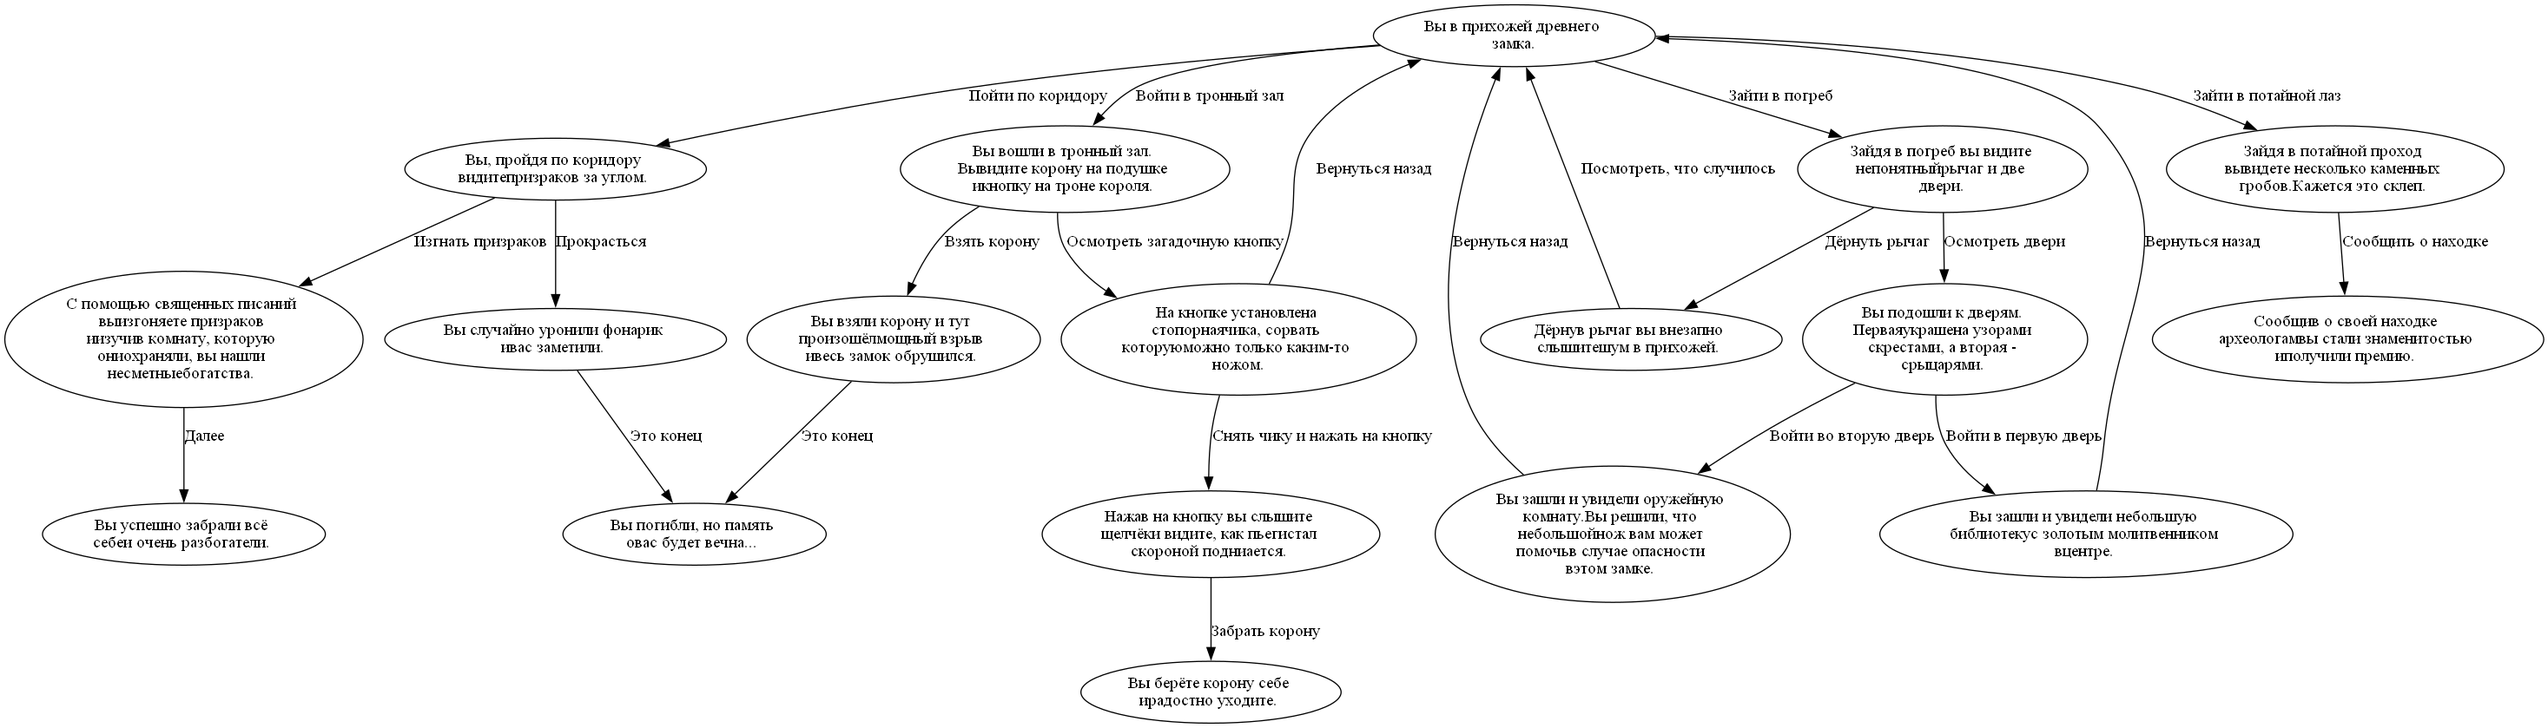
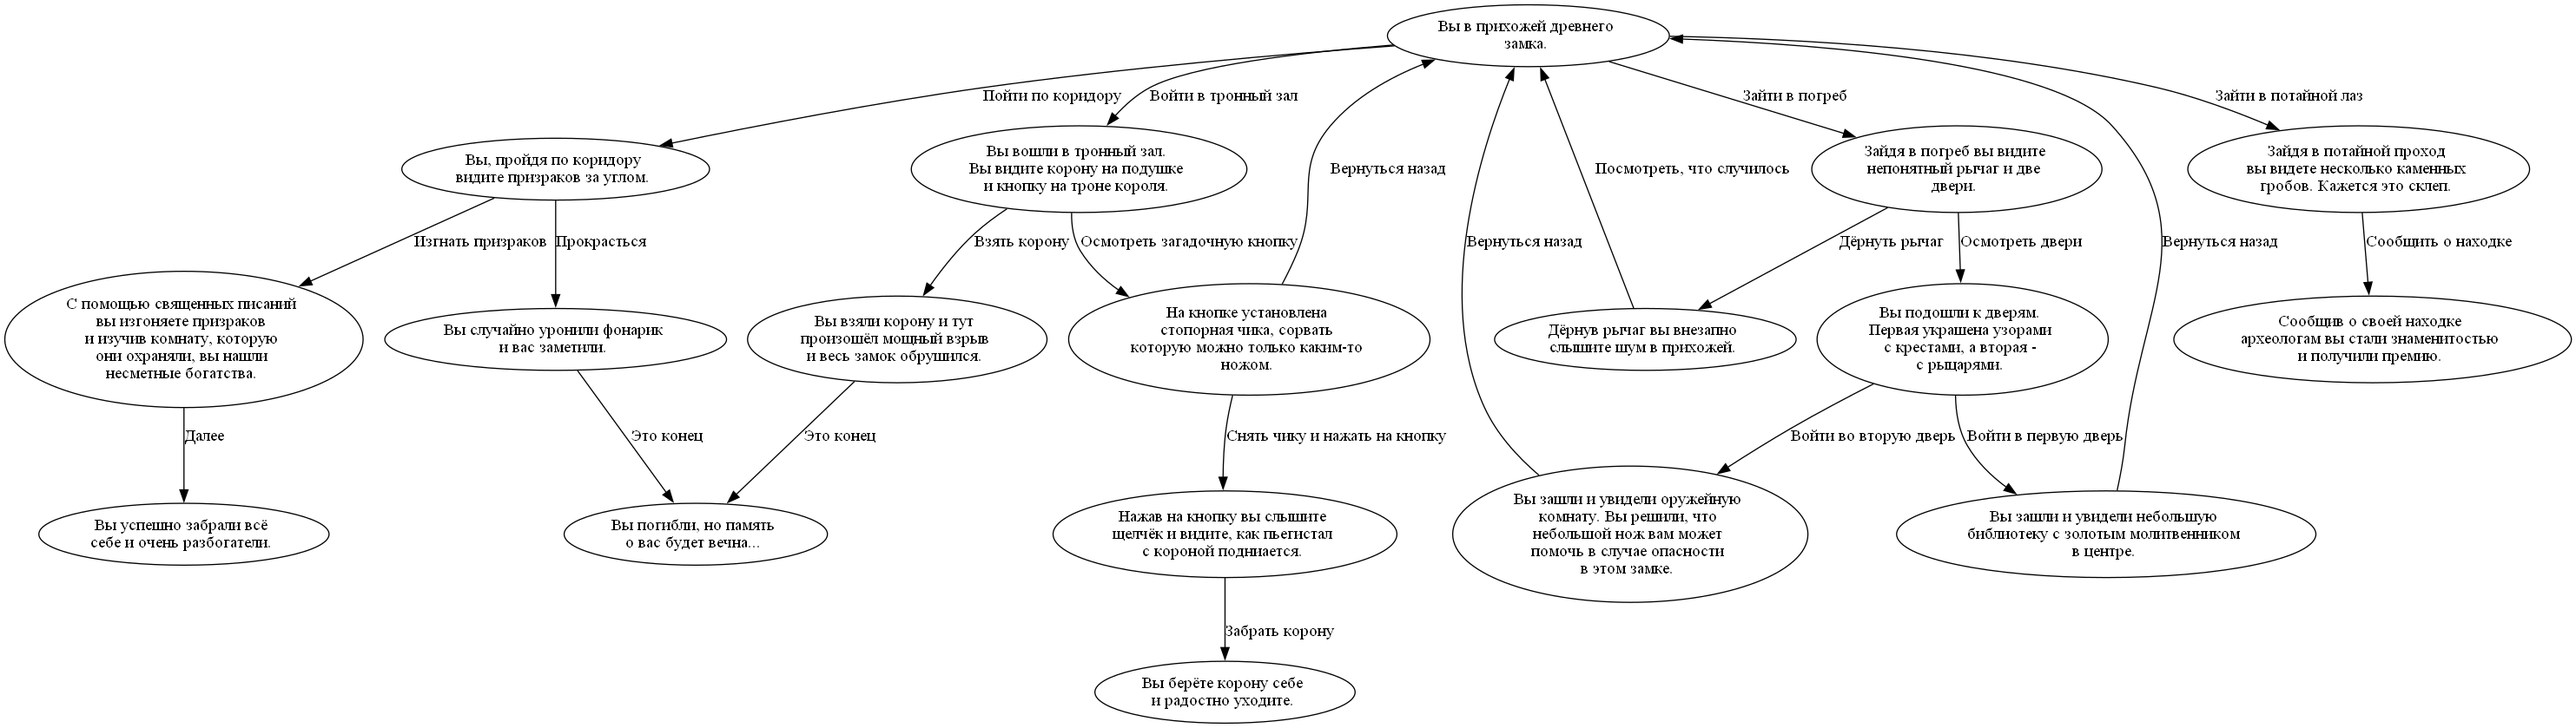
Try/except + new picture
Исправление бага с пробельчиками + ошибки при сломанных файлах

diff --git a/generator5.py b/generator5.py
@@ -1,6 +1,14 @@
 import json  # Сохранение списков
 import os  # Переход в другую директорию
-import graphviz  # Отрисовка графа
+import sys  # Завершение работы программы
+try:
+    import graphviz  # Отрисовка графа
+except ModuleNotFoundError:
+    print('Модуль graphviz не установлен')
+    print('Команда для установки: ')
+    print('pip install graphviz')
+    input()
+    sys.exit(1)
 
 def print_buttons(buttons):
     """Функция вывода текстов для кнопок"""
@@ -12,13 +20,28 @@ def print_buttons(buttons):
 
 
 # Переход в папку бота
+cls = 'cls' if os.name == 'nt' else 'clear'
 sep = '\\' if os.name == 'nt' else '/'
 file = input('Введите адрес папки для бота:\n')
 s = file + f'{sep}TelegramBotData{sep}static'
-os.chdir(s)
+try:
+    os.chdir(s)
+except FileNotFoundError:
+    print('Указанной папки не существует')
+    input()
+    sys.exit(1)
 
 # Считывание текстов кнопок
-button = json.load(open('button.json', 'r'))
+try:
+    button = json.load(open('button.json', 'r'))
+except FileNotFoundError:
+    print('В файлах бота отсутствует TelegramBotData/static/button.json')
+    print('Вы можете создать его сами')
+    print('В этот файл нужно записать такую строку: ')
+    print('[["", "", ... столько раз, сколько вершин в графе], ["", "", ... столько раз, сколько вершин в графе], '
+          '... столько раз, сколько вершин в графе]')
+    input()
+    sys.exit(1)
 
 # Вывод текстов
 print_buttons(button)
@@ -49,41 +72,52 @@ text_list = json.load(open('text.json', 'r'))
 
 # Указание, куда сохранять картинку
 s = file + f'{sep}TelegramBotData{sep}graph'
-os.chdir(s)
-
-# Создание графа
-g = graphviz.Digraph('Graph for bot', comment='Your graph', format='png')
+try:
+    os.chdir(s)
+except FileNotFoundError:
+    print('Указанной папки не существует')
+    input()
+    sys.exit(1)
 
 # Создание нормальных окон(не однострочных)
-for i in range(len(adj_list)):
-    text_split = text_list[i].split()
-    text = ''
-    l = 0
-    for j in range(len(text_split)):
-        if l <= 20:
-            text += text_split[j] + " "
-            l += len(text_split[j]) + 1
+try:
+    g = graphviz.Digraph('Graph for bot', comment='Your graph', format='png')
+
+    # Создание нормальных окон(не однострочных)
+    for i in range(len(adj_list)):
+        text_split = text_list[i].split()
+        text = ''
+        l = 0
+        for j in range(len(text_split)):
+            if l <= 20:
+                text += text_split[j] + " "
+                l += len(text_split[j]) + 1
+            else:
+                text += '\n'
+                text += text_split[j] + " "
+                l = 0
+                l += len(text_split[j])
+
+        if not text:
+            text = f'No text for vertex №{i}'
         else:
-            text += '\n'
-            text += text_split[j]
-            l = 0
-            l += len(text_split[j])
+            pass
+        g.node(f'{i}', text)
 
-    if not text:
-        text = f'No text for vertex №{i}'
+    for i, h in enumerate(adj_list):
+        for j in h:
+            g.edge(f'{i}', f'{j}',
+                   label=button_list[i][j] if button_list[i][j] else f'No text wor edge from {i} to {j}')
+
+    print('Вы хотите увидеть получившийся граф?(Y/N)')
+    if input().upper() == 'Y':
+        g.view()
     else:
-        pass
-    g.node(f'{i}', text)
+        g.render()
 
-for i, h in enumerate(adj_list):
-    for j in h:
-        g.edge(f'{i}', f'{j}',
-               label=button_list[i][j] if button_list[i][j] else f'No text wor edge from {i} to {j}')
-
-print('Вы хотите увидеть получившийся граф?(Y/N)')
-if input().upper() == 'Y':
-    g.view()
-else:
-    g.render()
-
-print(f'Граф сохранён по адресу {file}{sep}TelegramBotData{sep}graph')
+    print(f'Граф сохранён по адресу {s}')
+except Exception as e:
+    print('При создании графа бота возникли проблемы')
+    print('Убедитесь что вы скачали graphviz (не только библиотеку, но и само приложение)')
+    print(e)
+    input()

diff --git a/generator3.py b/generator3.py
@@ -115,7 +115,12 @@ except FileNotFoundError:
     sys.exit(1)
 # Указание, куда сохранять картинку
 s = file + f'{sep}TelegramBotData{sep}graph'
-os.chdir(s)
+try:
+    os.chdir(s)
+except FileNotFoundError:
+    print('Указанной папки не существует')
+    input()
+    sys.exit(1)
 
 # Создание графа
 try:
@@ -132,7 +137,7 @@ try:
                 l += len(text_split[j]) + 1
             else:
                 text += '\n'
-                text += text_split[j]
+                text += text_split[j] + " "
                 l = 0
                 l += len(text_split[j])
 

diff --git a/generator4.py b/generator4.py
@@ -205,7 +205,12 @@ except FileNotFoundError:
     sys.exit(1)
 # Указание, куда сохранять картинку
 s = file + f'{sep}TelegramBotData{sep}graph'
-os.chdir(s)
+try:
+    os.chdir(s)
+except FileNotFoundError:
+    print('Указанной папки не существует')
+    input()
+    sys.exit(1)
 
 # Создание графа
 try:
@@ -222,7 +227,7 @@ try:
                 l += len(text_split[j]) + 1
             else:
                 text += '\n'
-                text += text_split[j]
+                text += text_split[j] + " "
                 l = 0
                 l += len(text_split[j])
 

diff --git a/generator2.py b/generator2.py
@@ -97,7 +97,12 @@ except FileNotFoundError:
     sys.exit(1)
 # Указание, куда сохранять картинку
 s = file + f'{sep}TelegramBotData{sep}graph'
-os.chdir(s)
+try:
+    os.chdir(s)
+except FileNotFoundError:
+    print('Указанной папки не существует')
+    input()
+    sys.exit(1)
 
 # Создание графа
 try:
@@ -114,7 +119,7 @@ try:
                 l += len(text_split[j]) + 1
             else:
                 text += '\n'
-                text += text_split[j]
+                text += text_split[j] + " "
                 l = 0
                 l += len(text_split[j])
 

diff --git a/README.md b/README.md
@@ -537,9 +537,8 @@ ___
 	[user] Сообщить о находке
 </details>
 <details>
-	<summary><h5>Тест бота</h5></summary> 
+	<summary><h5>Итоговый бот</h5></summary> 
 	Что-бы запустить пробного бота и посмотреть за его работой, в папке Bot_test запустите файл bot.py. В нём введите токен бота, в котором вы хотите работать, а далее просто переходите в вашего бота и пропишите /start.
 </details>
 
-___
 ![Alt-текст](/TelegramBotGeneratorData/project_graf.png "Пример графа")
